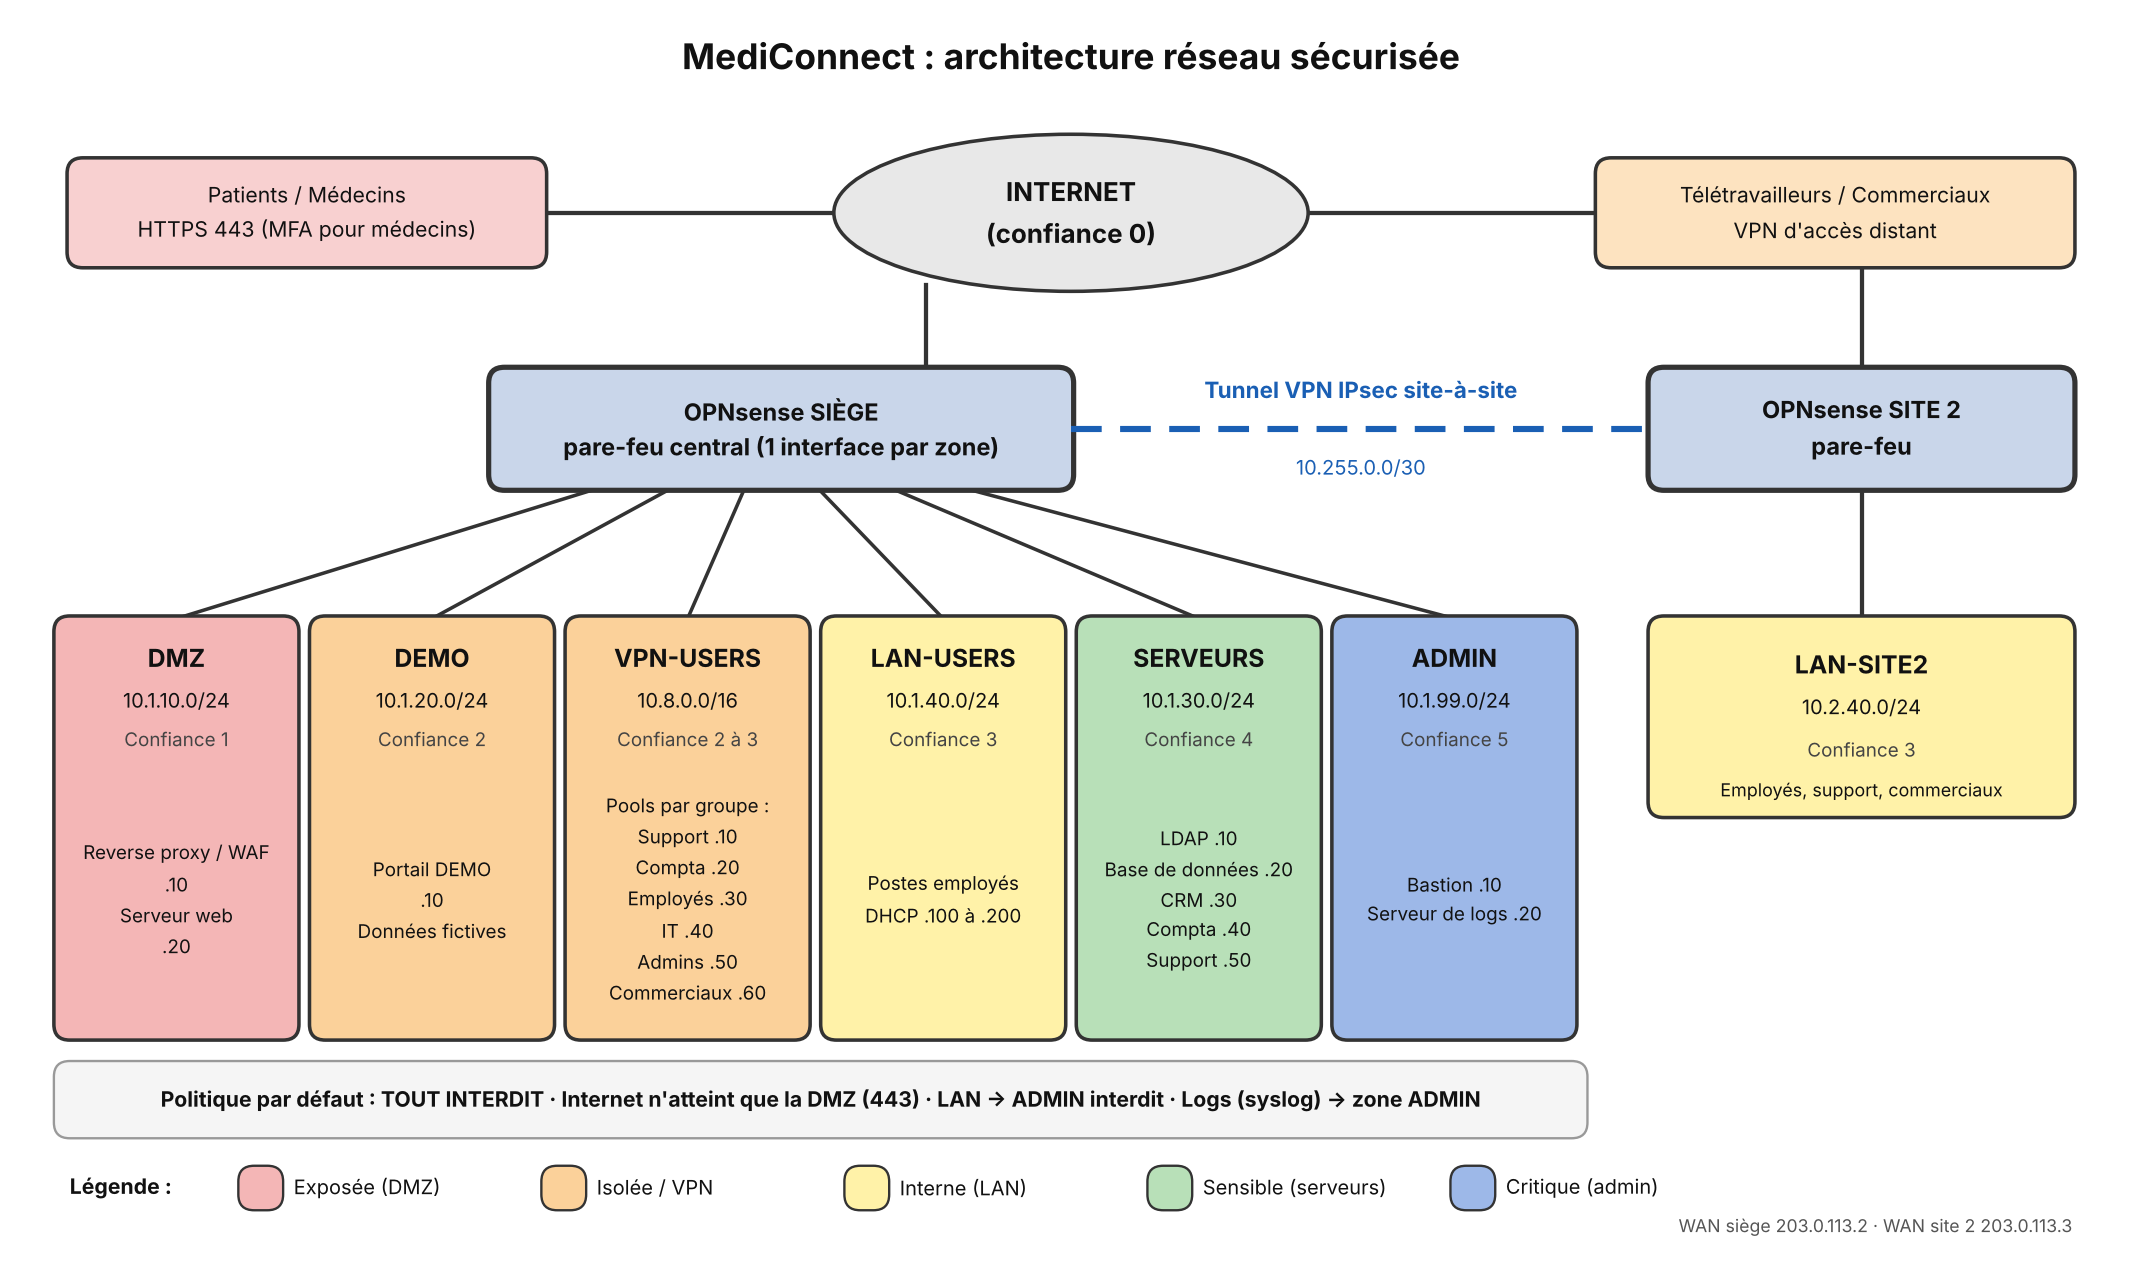
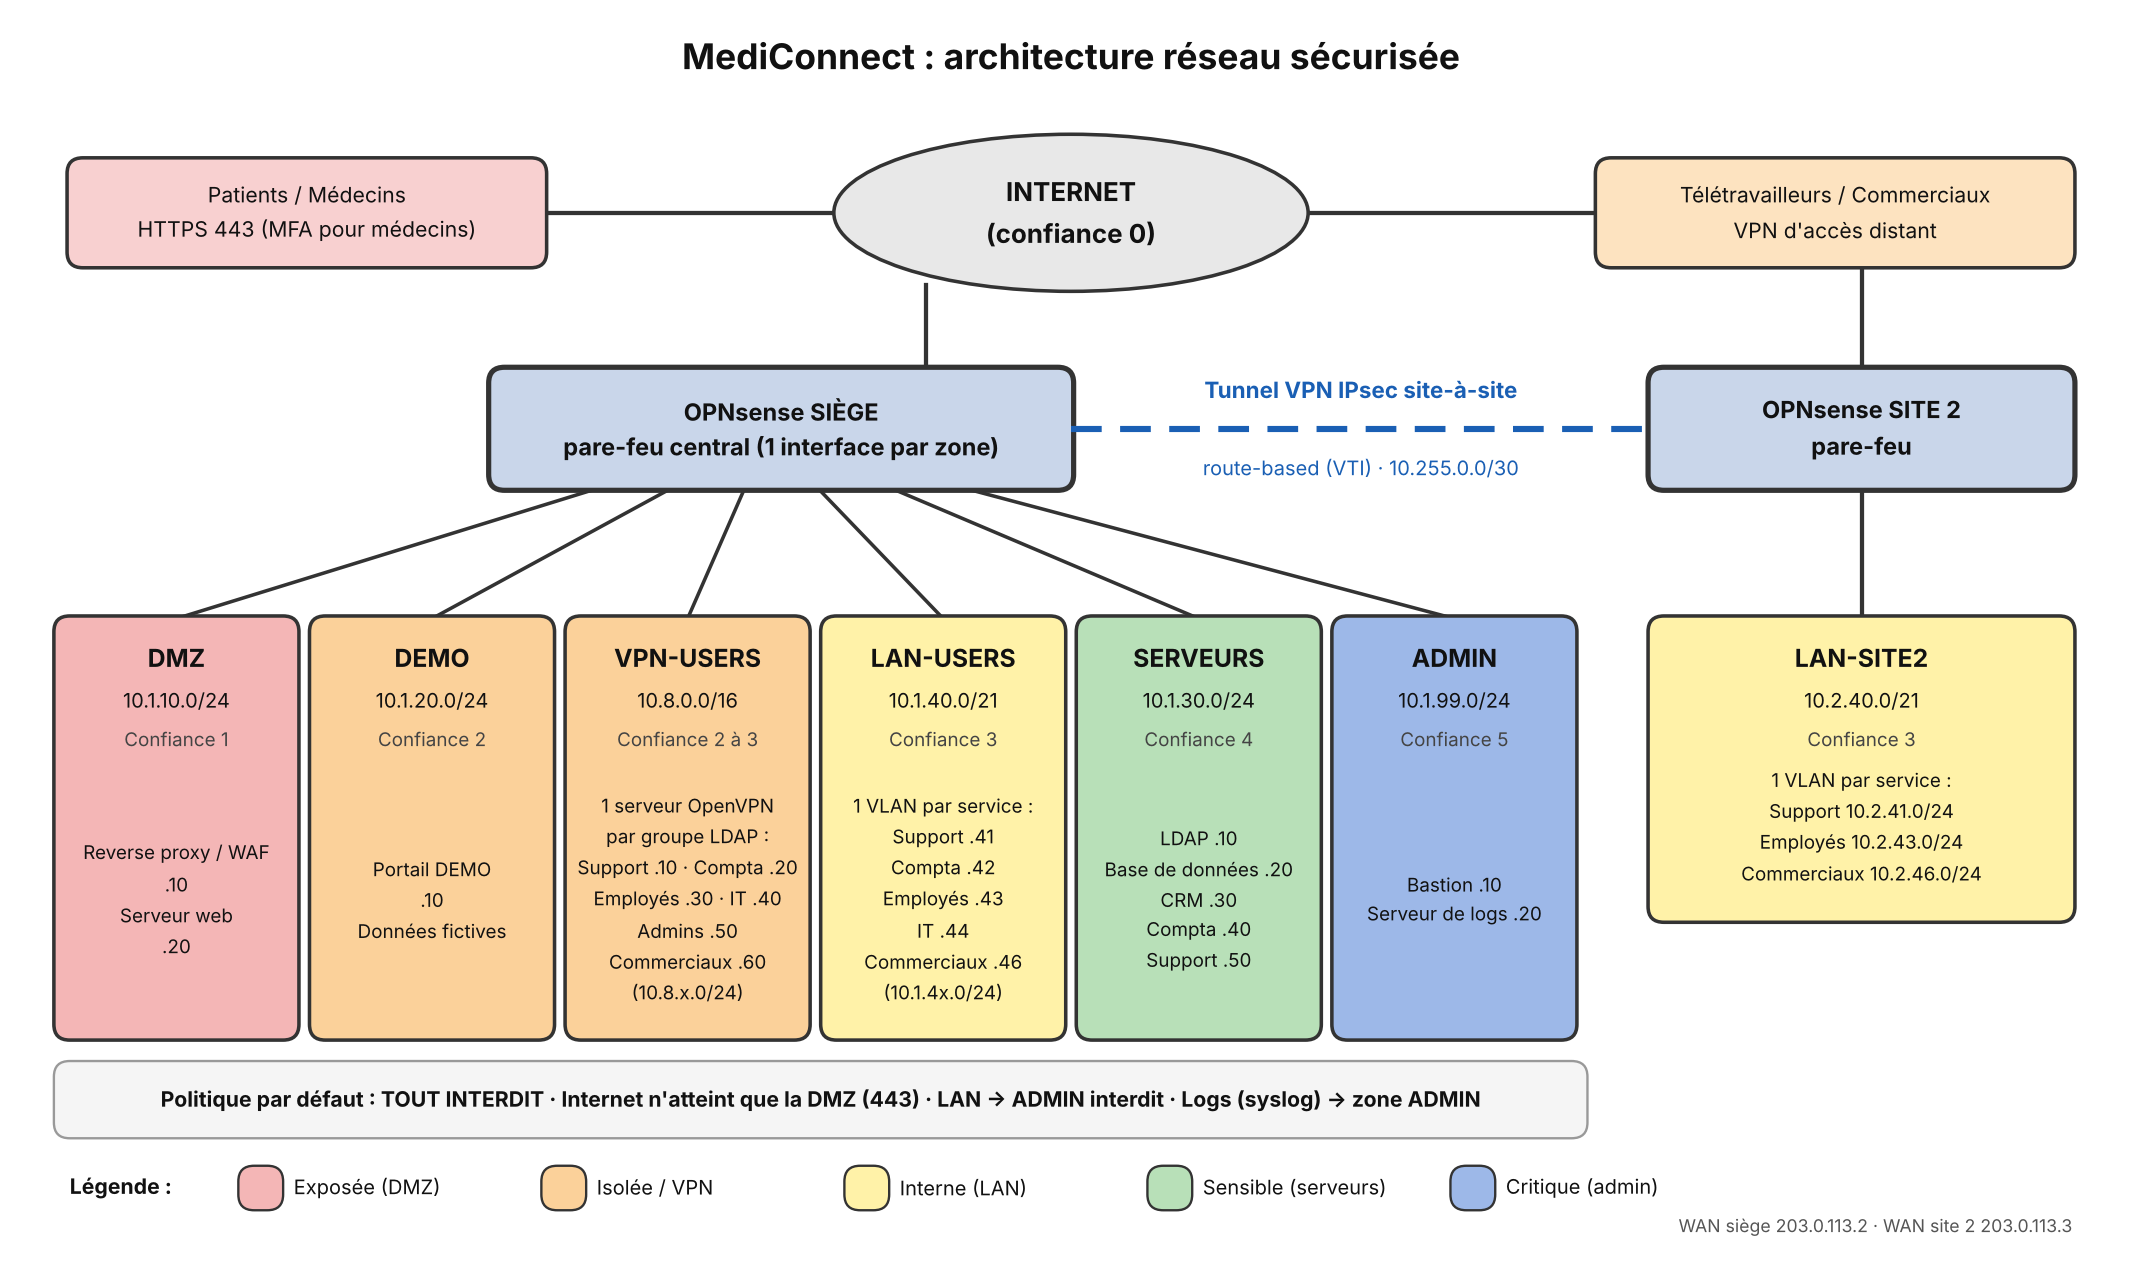
Update addressing plan: per-department VLANs, OpenVPN per group, route-based IPsec

diff --git a/docs/rapport-section-3.md b/docs/rapport-section-3.md
@@ -1,41 +1,58 @@
-## 3. Plan d'adressage
+## 3. Plan d'adressage
 
 ### 3.1 Principes de conception
 
-1. **Adresses privées RFC 1918, dans `10.0.0.0/8`.** Le `192.168.0.0/16` est évité : les box des domiciles utilisent presque toutes `192.168.0.0/24` ou `192.168.1.0/24`, ce qui créerait un conflit de routage pour un télétravailleur connecté au VPN.
-2. **Un sous-réseau par zone de sécurité**, pour écrire une règle de filtrage par zone.
-3. **Une structure lisible : `10.<site>.<zone>.0/24`.** Le deuxième octet identifie le site (1 siège, 2 site secondaire, 8 VPN) et le troisième la zone.
-4. **Aucun chevauchement** entre les sites, les zones et les pools VPN.
-5. **Des masques `/24`** : 254 hôtes par zone, suffisant et lisible.
+1. **Adresses privées RFC 1918, dans `10.0.0.0/8`.** Ces plages ne sont pas routées sur Internet. Le `192.168.0.0/16` est volontairement évité : les box des domiciles utilisent presque toutes `192.168.0.0/24` ou `192.168.1.0/24`, ce qui créerait un conflit de routage pour un télétravailleur connecté au VPN.
+2. **Un sous-réseau par zone de sécurité et par service.** Chaque zone, et chaque service à l'intérieur du LAN, possède sa propre plage. Le pare-feu peut ainsi appliquer une règle différente à chacun.
+3. **Une structure lisible : `10.<site>.<zone>.0/24`.** Le deuxième octet identifie le site (1 siège, 2 site secondaire, 8 VPN d'accès distant) et le troisième identifie la zone ou le service. Une adresse suffit à savoir où se trouve une machine et à quel service elle appartient.
+4. **Des blocs agrégables.** Les sous-réseaux des services d'un même site sont regroupés dans un bloc `/21` (`10.1.40.0/21` au siège, `10.2.40.0/21` au site secondaire). Une seule règle peut ainsi viser tout le LAN d'un site, par exemple pour lui interdire l'accès à la zone ADMIN.
+5. **Aucun chevauchement** entre les sites, les zones et les pools VPN, sinon le routage et les tunnels IPsec ne fonctionnent pas.
+6. **Des masques `/24`** pour chaque sous-réseau : 254 hôtes, largement suffisant, et lecture simplifiée.
 
-### 3.2 Sous-réseaux du siège
+### 3.2 Zones du siège
 
 | Zone | Sous-réseau | Passerelle (pare-feu) |
 |---|---|---|
 | DMZ | `10.1.10.0/24` | `10.1.10.1` |
 | DEMO | `10.1.20.0/24` | `10.1.20.1` |
 | SERVEURS | `10.1.30.0/24` | `10.1.30.1` |
-| LAN-USERS | `10.1.40.0/24` | `10.1.40.1` |
+| LAN-USERS (bloc) | `10.1.40.0/21` | voir 3.3 |
 | ADMIN | `10.1.99.0/24` | `10.1.99.1` |
 
-### 3.3 Site secondaire
+### 3.3 Réseaux locaux : un VLAN par service
 
-| Zone | Sous-réseau | Passerelle |
-|---|---|---|
-| LAN-SITE2 | `10.2.40.0/24` | `10.2.40.1` |
+Le LAN de chaque site est découpé en VLAN, un par service. Le numéro de VLAN est identique au troisième octet de l'adresse, ce qui facilite la lecture et le dépannage.
+
+| Service | VLAN | Siège | Site secondaire | Pool VPN correspondant |
+|---|---|---|---|---|
+| Support | 41 | `10.1.41.0/24` | `10.2.41.0/24` | `10.8.10.0/24` |
+| Comptabilité | 42 | `10.1.42.0/24` | — | `10.8.20.0/24` |
+| Employés / direction | 43 | `10.1.43.0/24` | `10.2.43.0/24` | `10.8.30.0/24` |
+| Informaticiens | 44 | `10.1.44.0/24` | — | `10.8.40.0/24` |
+| Commerciaux | 46 | `10.1.46.0/24` | `10.2.46.0/24` | `10.8.60.0/24` |
+
+La passerelle de chaque VLAN est l'adresse `.1` (par exemple `10.1.41.1` pour le support du siège). Le site secondaire n'accueille que les services décrits par le sujet : employés, support et commerciaux.
+
+Les administrateurs n'ont pas de VLAN utilisateur : ils travaillent depuis la zone ADMIN (`10.1.99.0/24`) ou depuis leur pool VPN dédié, conformément à l'exigence de séparation des flux d'administration.
+
+Cette segmentation permet d'appliquer les mêmes droits à un utilisateur qu'il soit au bureau ou en télétravail : un commercial n'atteint que le CRM et la zone DEMO, qu'il soit dans `10.1.46.0/24`, `10.2.46.0/24` ou `10.8.60.0/24`.
 
 ### 3.4 VPN d'accès distant : un pool par groupe
 
-| Groupe | Pool d'adresses | Ressources autorisées |
+| Groupe LDAP | Pool d'adresses | Ressources autorisées |
 |---|---|---|
 | Support | `10.8.10.0/24` | Applications de support |
 | Comptabilité | `10.8.20.0/24` | Serveurs comptables |
 | Employés | `10.8.30.0/24` | Ressources bureautiques |
 | Informaticiens | `10.8.40.0/24` | Ressources techniques autorisées |
-| Administrateurs | `10.8.50.0/24` | Infrastructure d'administration |
+| Administrateurs | `10.8.50.0/24` | Infrastructure d'administration (via le bastion) |
 | Commerciaux | `10.8.60.0/24` | CRM et zone DEMO uniquement |
 
-L'identité de l'utilisateur est traduite en règles réseau : à la connexion, son groupe dans l'annuaire LDAP détermine le pool d'adresses qu'il reçoit, et les règles de pare-feu s'appliquent à chaque pool.
+**Mécanisme d'attribution.** L'identité de l'utilisateur est traduite en règles réseau. Chaque groupe dispose de sa propre instance de serveur OpenVPN, avec son pool d'adresses. Chaque instance authentifie les utilisateurs auprès de l'annuaire LDAP et n'accepte que les membres de son groupe. Un utilisateur reçoit donc une adresse dans le pool de son groupe, et les règles du pare-feu s'appliquent à ce pool.
+
+Exemple : un commercial qui se connecte reçoit une adresse dans `10.8.60.0/24`. Les règles associées à ce pool ne lui ouvrent que le CRM et la zone DEMO ; il ne peut pas atteindre les serveurs comptables.
+
+Dans la maquette, trois groupes sont mis en œuvre (Support, Commerciaux, Administrateurs). Les autres suivent exactement le même modèle.
 
 ### 3.5 Liaisons entre sites et accès Internet
 
@@ -45,6 +62,10 @@ L'identité de l'utilisateur est traduite en règles réseau : à la connexion, 
 | WAN siège | `203.0.113.2/24` | Plage de documentation (RFC 5737) |
 | WAN site 2 | `203.0.113.3/24` | Même segment : Internet simulé |
 | Client Internet de test | `203.0.113.100/24` | Simule patients, médecins, attaquant |
+
+Le tunnel IPsec est configuré en mode **route-based** : chaque pare-feu dispose d'une interface virtuelle de tunnel (VTI), adressée dans le `/30`. Ce mode permet de traiter le tunnel comme une interface ordinaire : le trafic venant du site secondaire est filtré par des règles dédiées, comme celui de n'importe quelle zone. Un `/30` fournit exactement deux adresses utilisables, une par pare-feu.
+
+Les adresses WAN appartiennent à une plage réservée à la documentation, jamais routée sur Internet. Dans la maquette, un seul segment partagé simule Internet.
 
 ### 3.6 Adresses des machines
 
@@ -61,9 +82,11 @@ L'identité de l'utilisateur est traduite en règles réseau : à la connexion, 
 | Bastion d'administration | `10.1.99.10` | ADMIN |
 | Serveur de journalisation | `10.1.99.20` | ADMIN |
 
-Conventions : `.1` est la passerelle, les serveurs ont des adresses fixes à partir de `.10`, les postes reçoivent du DHCP de `.100` à `.200`.
+Conventions : `.1` est la passerelle (le pare-feu), les serveurs ont des adresses fixes à partir de `.10`, et les postes utilisateurs reçoivent une adresse par DHCP de `.100` à `.200`, ce qui évite les collisions avec les serveurs.
 
 ### 3.7 Limites du plan
 
-- Le plan `10.x.x.x` peut entrer en conflit avec un réseau utilisant la même plage (cabinet médical, entreprise).
+- Le plan `10.x.x.x` peut entrer en conflit avec un réseau distant utilisant la même plage (cabinet médical, autre entreprise), rare mais possible pour un utilisateur nomade.
+- L'identité est déduite de l'adresse IP : si un utilisateur parvenait à changer d'adresse sur le LAN, il changerait de droits. Le risque est limité par le fait que chaque VLAN est un réseau séparé, et qu'en production on ajouterait une authentification des postes sur les ports réseau (802.1X).
+- Dans la maquette, tous les VLAN et tous les groupes VPN ne sont pas montés : seuls ceux nécessaires à la démonstration le sont.
 - Le segment WAN unique simule Internet sans reproduire deux opérateurs distincts.
